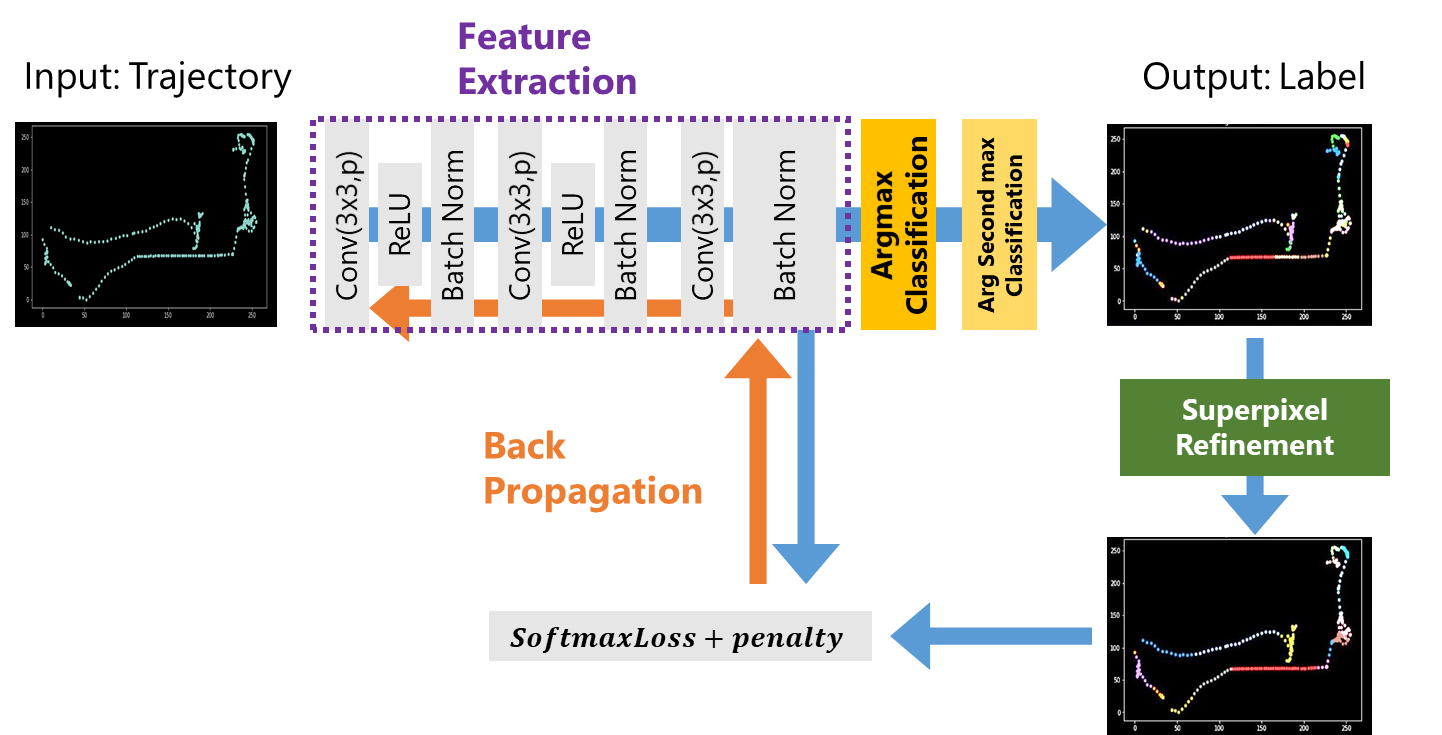
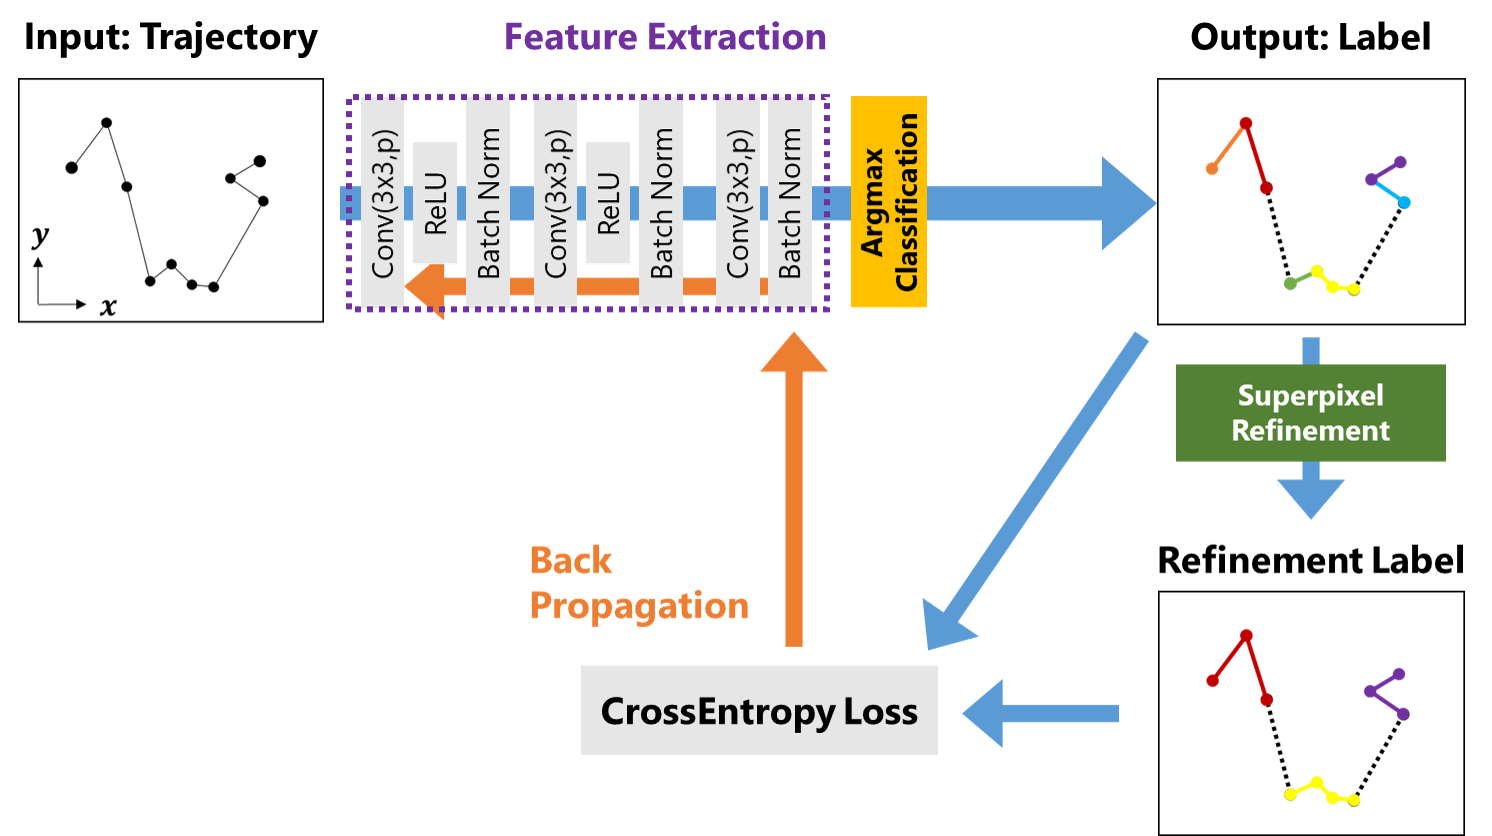
update readme

diff --git a/README.md b/README.md
@@ -2,7 +2,13 @@
 ### Author
 --
 ### Abstract
---
+The recent development of sensing technology and computer vision enables to track and measure the behavior of animals. This study investigates the unsupervised segmentation of animal locomotion data using deep learning based on image-based unsupervised segmentation methods.
+
+## Overview
+<div align="center">
+    <img src="documents/model.png", width="600">
+</div>
+
 ## How to run
 
 Train and Prediction Vanilla model
